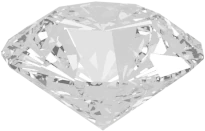
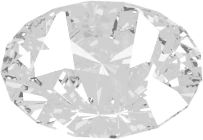
Front page: diamond ornaments seen from above, pavilion point hidden
Claude-Session: https://claude.ai/code/session_01DRAcaayjo7nUq6nJStwztm

diff --git a/red-look.css b/red-look.css
@@ -318,4 +318,4 @@ html.red #formStep .r-keep{display:block;font-family:'Jost',sans-serif !importan
 html.red .hero-illustration{transform:none;width:350px;height:164px;margin:6px 0 0;pointer-events:none}
 html.red .hero-illustration .jewel{position:absolute;left:-1px;top:-31px;width:542px;height:auto;max-width:none;display:block;user-select:none;-webkit-user-select:none}
 /* ornaments: the rendered diamond, no hairlines */
-html.red #hookStep .r-b22 li:before,html.red #hookStep .r-b22:after,html.red #formStep .r-note:last-of-type:before{background:url(img/jewel/gem.webp) center/32px auto no-repeat !important}
+html.red #hookStep .r-b22 li:before,html.red #hookStep .r-b22:after,html.red #formStep .r-note:last-of-type:before{background:url(img/jewel/gem.webp?v=2) center/32px auto no-repeat !important}

diff --git a/index.html b/index.html
@@ -853,7 +853,7 @@ html,body{overflow-x:clip !important;}
 .row-birth .row-time>div:first-child label{white-space:nowrap;}
 
 </style>
-<link rel="stylesheet" href="red-look.css?v=20261139">
+<link rel="stylesheet" href="red-look.css?v=20261140">
 <link rel="stylesheet" href="obsidian-look.css?v=8">
 <style id="btn3d">
 /* Buttons: same shapes; speckle-free copies of the button images (img/k3), real depth, words engraved into the face. */
